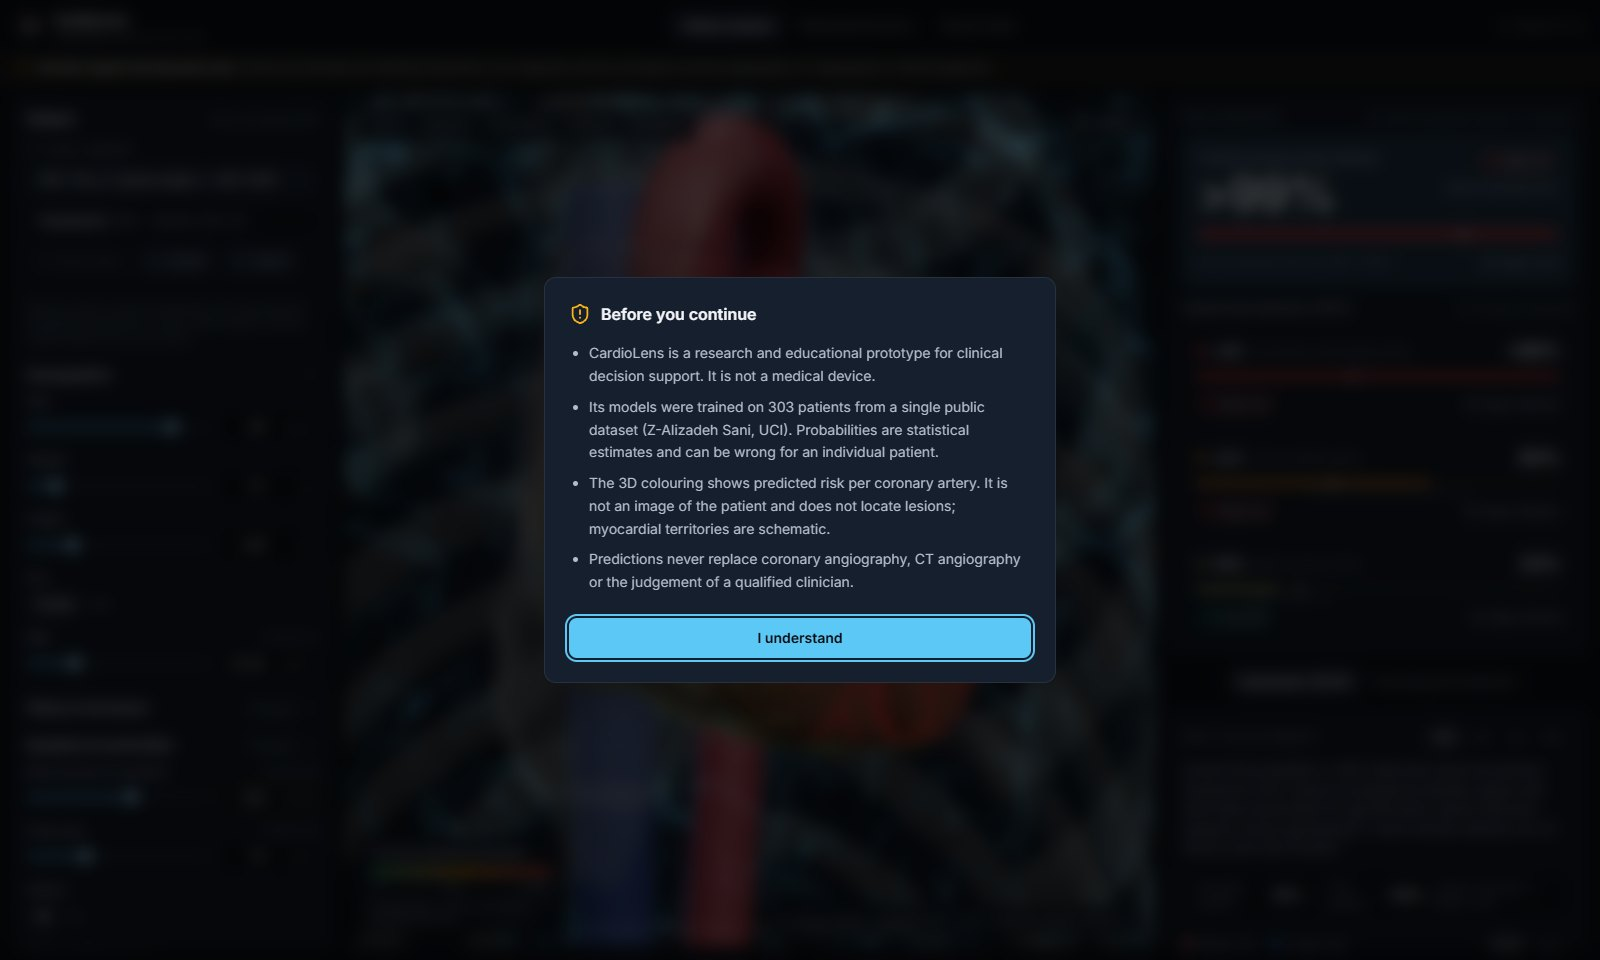
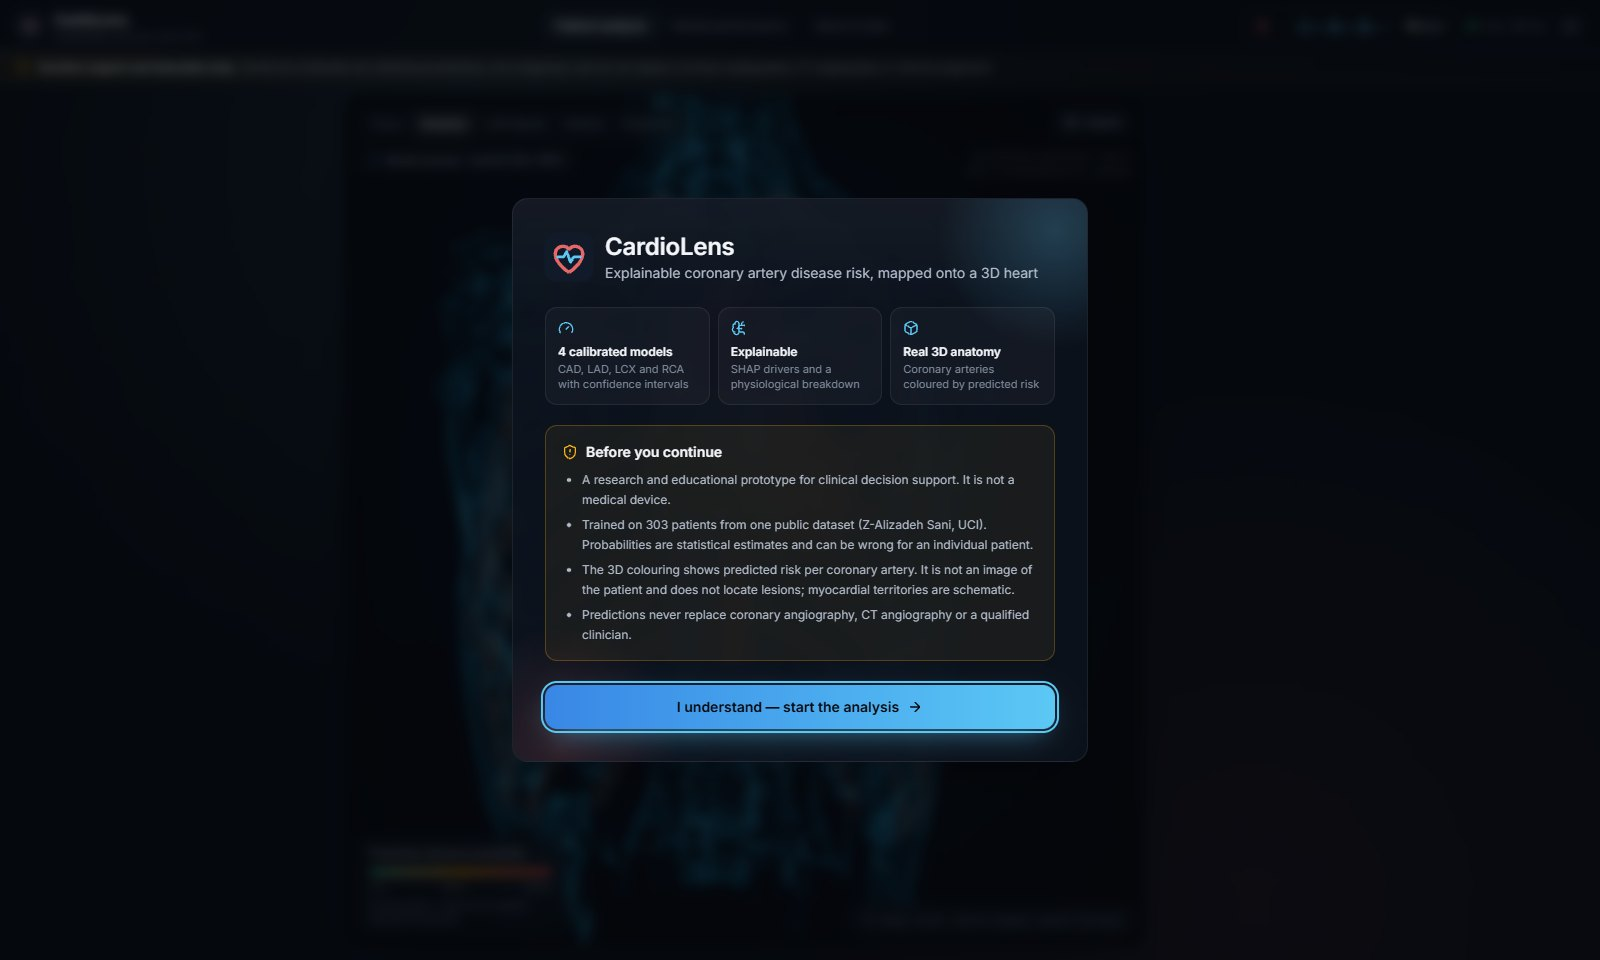
Refresh screenshots and describe the visual feedback in the docs

diff --git a/README.md b/README.md
@@ -12,11 +12,13 @@ and explains every estimate with SHAP and a physiological breakdown.
 > estimates and do not replace coronary angiography, CT angiography or clinical
 > judgement. The UI shows this disclaimer permanently and on first visit.
 
-![CardioLens analysis view: LAD selected, coronary arteries coloured by predicted stenosis probability](docs/figures/screenshot_analysis.jpg)
+![CardioLens analysis view: coronary arteries coloured by predicted stenosis probability](docs/figures/screenshot_analysis.jpg)
 
 <p align="center">
+  <img src="docs/figures/screenshot_whatif.jpg" alt="What-if mode: editing the age re-scores every artery live" width="49%">
   <img src="docs/figures/screenshot_xray.jpg" alt="X-ray mode, inferior view of the coronary tree" width="49%">
-  <img src="docs/figures/screenshot_model.png" alt="Model performance dashboard" width="49%">
+  <img src="docs/figures/screenshot_model.jpg" alt="Model performance dashboard" width="49%">
+  <img src="docs/figures/screenshot_disclaimer.jpg" alt="Welcome screen with the clinical safety disclaimer" width="49%">
 </p>
 
 Multimodal AI Hackathon 2026, Track A: Cardiovascular Risk Visualization & Prediction.
@@ -34,6 +36,7 @@ Multimodal AI Hackathon 2026, Track A: Cardiovascular Risk Visualization & Predi
 | **Interaction** | Orbit, zoom, pan, view presets, click-to-select vessels or myocardial regions, fly-to camera, layer toggles, x-ray mode, and a heartbeat at the patient's recorded pulse. |
 | **Explainability** | SHAP values are folded back to clinical features, additive in calibrated log-odds (a unit test checks the additivity). Each prediction gets a text summary, a physiological table with reference ranges, cohort percentile and each factor's share of the explanation, plus global SHAP and permutation importance. |
 | **Real-time** | Any input edit re-scores all four targets with explanations and bootstrap intervals in about 30–40 ms on a laptop CPU. |
+| **Visual feedback** | Each new prediction sends a scan band down the myocardium. Emissive pulses run along the arteries at the patient's heart rate, and arteries above their threshold glow (bloom). On the dashboard, numbers ease to new values and changed cards flash with the size of the change. SHAP rows re-order with layout animations, and an ECG strip in the header beats at the patient's pulse. Effects are dropped automatically on slow devices and respect *prefers-reduced-motion*. |
 | **Extensible** | Features (`backend/config/features.yaml`), targets (`targets.yaml`), model families (`models.py`) and 3D structures (`frontend/src/anatomy/registry.ts`) are all declared in configuration. |
 
 ## Results

diff --git a/docs/REPORT.md b/docs/REPORT.md
@@ -193,7 +193,8 @@ Anatomical context comes from:
 - **Interaction.** The user can orbit, zoom and pan, and jump to presets (torso, anterior, left lateral, inferior, posterior).
 - **Picking.** Picking uses BVH-accelerated raycasting with enlarged invisible hit proxies around the thin arteries. Hovering shows the vessel or territory with its probability. Clicking an artery, its label, a dashboard card or a myocardial region selects the target: the camera flies to it and it gets an outline. Keys 0–3 select targets.
 - **Layers.** Torso, ribs, lungs, great vessels, veins, territories, labels, x-ray myocardium, auto-rotate, and a heartbeat at the patient's recorded pulse rate.
-- **Performance.** DPR is capped at 1.75 with adaptive DPR, and a performance monitor switches to a low-cost mode on slow devices.
+- **Feedback effects.** Each new prediction sends a scan band down the myocardium. Emissive pulses travel along every artery once per heartbeat, paced by the patient's pulse rate. A bloom pass on 8-bit buffers makes vessels above their threshold glow; it is compatible with integrated and software GPUs.
+- **Performance.** DPR is capped at 1.75 with adaptive DPR. A performance monitor first drops bloom; if the device stays slow, it switches to a low-cost mode without effects.
 
 **Consistent correspondence.**
 - `frontend/src/anatomy/registry.ts` is the only mapping from target id to GLB node, label and territory channel.
